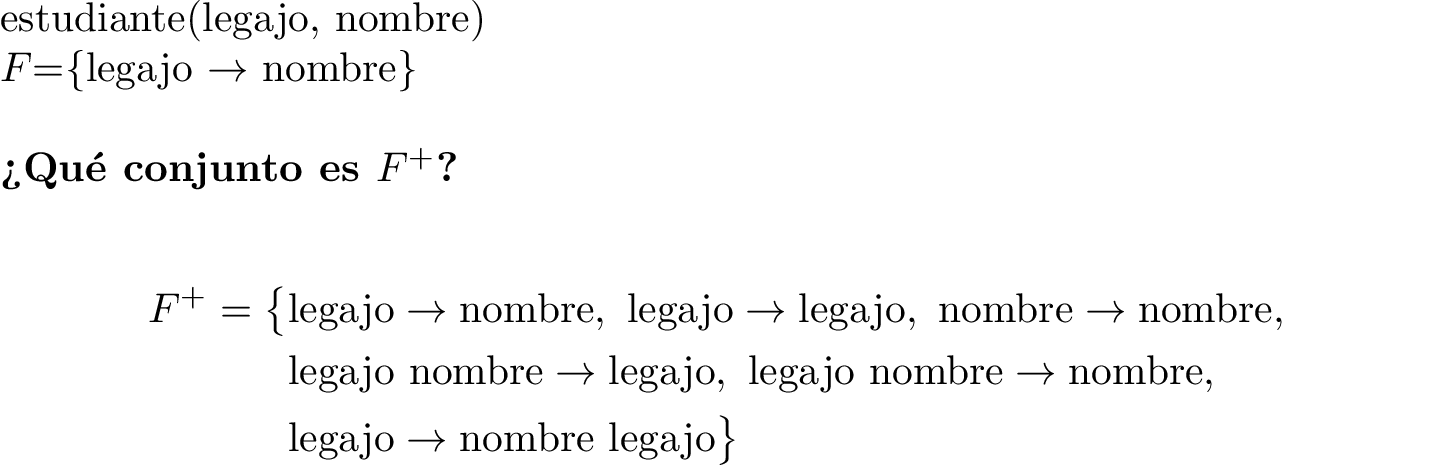
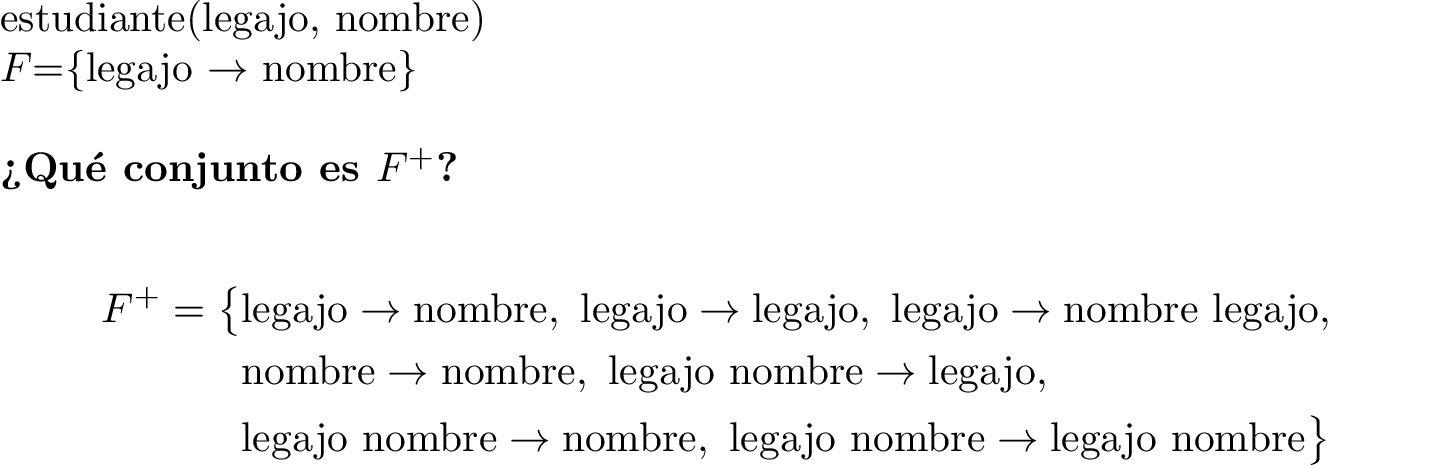
correcciones en slides.

diff --git a/present/tex/df-clausura-df-ejemplo-2.tex b/present/tex/df-clausura-df-ejemplo-2.tex
@@ -9,8 +9,8 @@ $F$=\{legajo $\rightarrow$ nombre\}\\
 
 \textbf{?`Qu\'e conjunto es $F^+$?}\\
 \begin{align*}
-	F^+ = \big\{ & \text{legajo} \rightarrow \text{nombre},\ \text{legajo} \rightarrow \text{legajo},\ \text{nombre} \rightarrow \text{nombre},\\
- & \text{legajo nombre} \rightarrow \text{legajo},\ \text{legajo nombre} \rightarrow \text{nombre},\\  
- & \text{legajo} \rightarrow \text{nombre legajo}\big\}   
+	F^+ = \big\{ & \text{legajo} \rightarrow \text{nombre},\ \text{legajo} \rightarrow \text{legajo},\ \text{legajo} \rightarrow \text{nombre legajo},\\
+ & \text{nombre} \rightarrow \text{nombre}, \ \text{legajo nombre} \rightarrow \text{legajo},\\  
+ & \text{legajo nombre} \rightarrow \text{nombre}, \ \text{legajo nombre} \rightarrow \text{legajo nombre} \big\}   
 \end{align*}
 \end{document}

diff --git a/present/tex/df-cubrimiento-minimal.tex b/present/tex/df-cubrimiento-minimal.tex
@@ -7,6 +7,6 @@ $F_m$ es un cubrimiento minimal de $F$ si $F_m\equiv F$ y adem\'as:
 \begin{align*}
 (1)\quad  & (X\rightarrow Y) \in F_m \Longrightarrow |Y| = 1& \text{(todo lado derecho tiene un solo atributo)}\\
 (2)\quad  & (X\rightarrow A) \in F_m \Longrightarrow \not \exists \ B \subset \ X \ \big| \  A\in \  \big\{ X \setminus \{B\} \big\}^+ & \text{(todo lado izquierdo es reducido)}\\
-(3)\quad  & (X\rightarrow Y) \in F_m \Longrightarrow \Big(F_m\setminus\big\{(X\rightarrow Y)\big\}\Big)\not\equiv F & \text{(no tiene dependencias redundantes)}\\
+(3)\quad  & (X\rightarrow A) \in F_m \Longrightarrow \Big(F_m\setminus\big\{(X\rightarrow A)\big\}\Big)\not\equiv F & \text{(no tiene dependencias redundantes)}\\
 \end{align*}
 \end{document}
